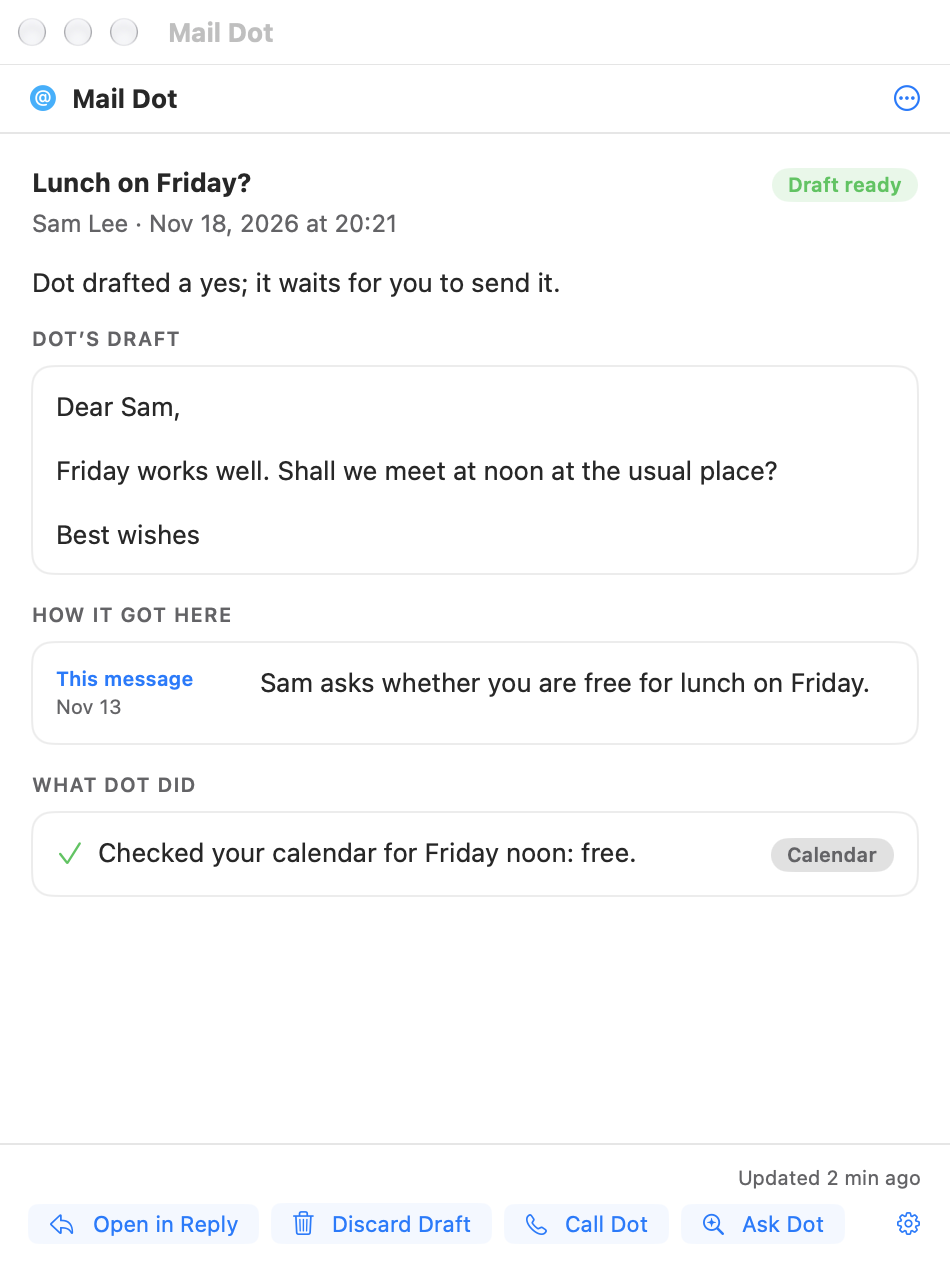
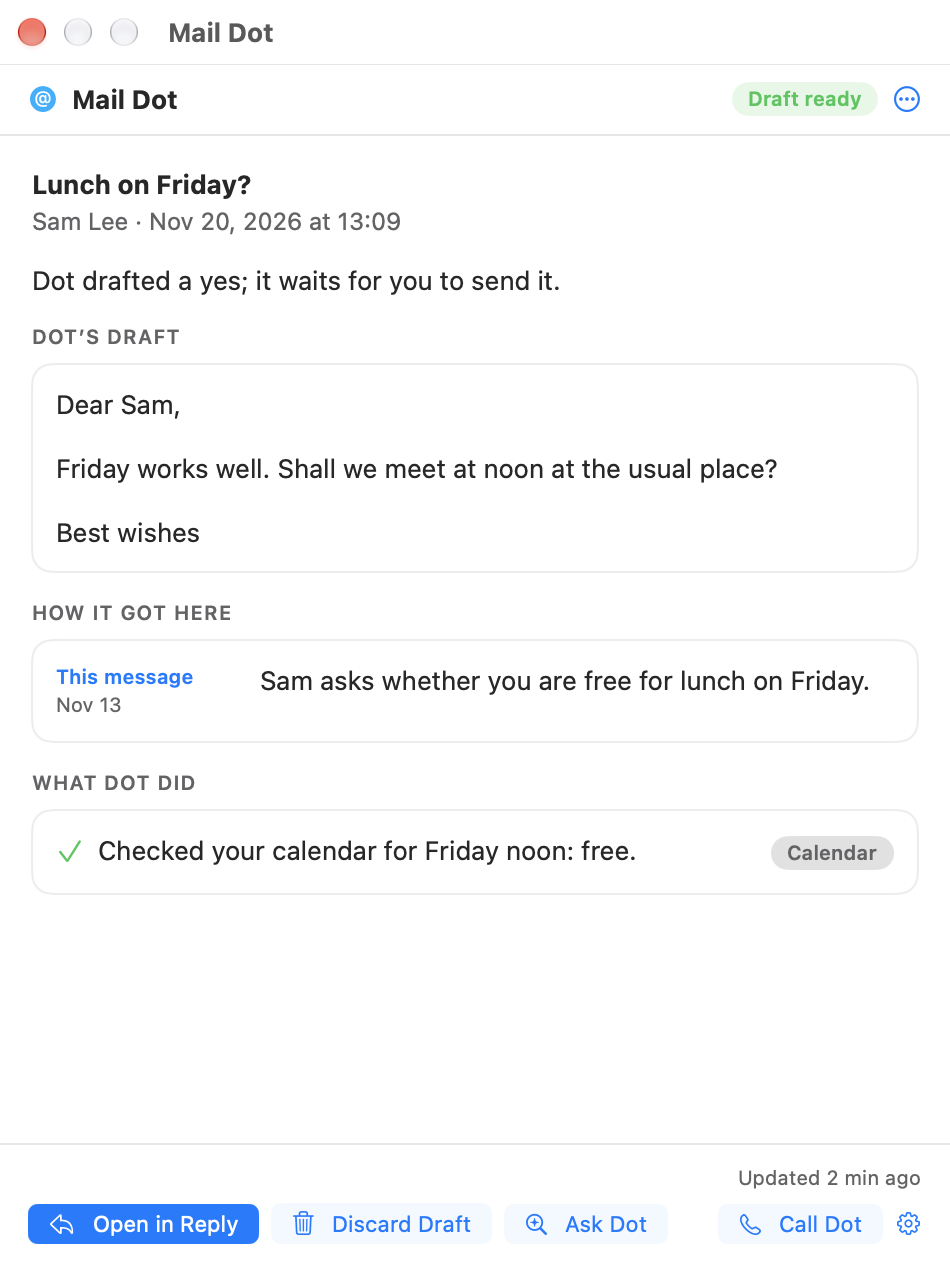
README: panel and window pictures from 0.4.224, with the new layout

diff --git a/README.md b/README.md
@@ -4,7 +4,7 @@ Mail Dot brings Dot, ChatGPT's always-on agent, into Apple Mail on the Mac. Dot 
 
 **Mail Dot is free for personal and noncommercial use.** Download the installer from the [Releases page](https://github.com/JGKarlin/maildot/releases); it is signed and notarized, and it updates itself. The source is published under the PolyForm Noncommercial License.
 
-<p align="center"><img src="docs/images/window-briefing.png" width="480" alt="The Mail Dot window for a thread of seven messages, in the Briefing view: Dot's question about which hall to book, with three suggested answers and a fourth choice, then what has been decided and what is still to decide. The bottom row offers No Reply Needed, Call Dot, Ask Dot and the settings."></p>
+<p align="center"><img src="docs/images/window-briefing.png" width="480" alt="The Mail Dot window for a thread of seven messages, in the Briefing view: Dot's question about which hall to book, with three suggested answers and a fourth choice, then what has been decided and what is still to decide. The state, Question for you, and the ⋯ menu are at the top. The bottom row offers No Reply Needed and Ask Dot on the left, and Call Dot and the settings gear on the right."></p>
 
 ## Why Mail Dot
 
@@ -20,7 +20,7 @@ When an important message arrives, or when you open one, Mail Dot offers it to D
 
 Where the context does not settle the reply, Dot asks one question with concrete answers, and a single press answers it. Mail Dot keeps your answer so that Dot does not ask again, and shows a draft already written before any question.
 
-<p align="center"><img src="docs/images/reply-question.png" width="520" alt="Mail Dot's panel showing a question from Dot about a scheduling conflict, with three suggested answers and a fourth choice to write something else."></p>
+<p align="center"><img src="docs/images/reply-question.png" width="520" alt="Mail Dot's panel showing a question from Dot about a scheduling conflict, with three suggested answers and a fourth choice to write something else. Insert, Save Draft, Send and No Reply are at the bottom, with the settings gear at the bottom right."></p>
 
 Mail Dot offers Dot only mail worth answering: bulk mail, mailing lists, receipts, account notices, one-time codes and automated messages stay out, and each account has its own switch for automatic drafts. Your drafting rules, such as how to open a message or how formal to be, go with every request, together with any notes on how to write to a particular person. A request you make yourself goes ahead of the automatic checks, and while Dot is starting the panel says how many requests are ahead of yours.
 
@@ -42,9 +42,9 @@ Gmail and iCloud are searched on the provider's servers through their connectors
 
 For each message it handles, Dot reports on the thread: how it began, how it developed, what has been decided, what remains open and who must act. A banner on the message gives the state: "Checking" while Dot decides whether a reply is needed, "Drafting" while it writes, then "Draft ready", "Question for you", "No reply needed", or "Replied" once you have answered, however you did it. Mail you wrote carries no banner.
 
-The banner's Open Mail Dot button opens the Mail Dot window over the message. It shows the state, then what needs you (Dot's question or its draft), then where the matter stands, how the thread got there, any meeting the mail sets with a button that adds it to your calendar, and what Dot did. When you answer Dot's question, the matter moves to Decided at once. The buttons at the bottom fit the state: No Reply Needed, Open in Reply, Discard Draft, Call Dot and Ask Dot.
+The banner's Open Mail Dot button opens the Mail Dot window over the message. It shows the state at the top, beside the ⋯ menu, then what needs you (Dot's question or its draft), then where the matter stands, how the thread got there, any meeting the mail sets with a button that adds it to your calendar, and what Dot did. When you answer Dot's question, the matter moves to Decided at once. The buttons at the bottom fit the state: No Reply Needed, Open in Reply, Discard Draft and Ask Dot on the left, then Call Dot and the settings gear at the right.
 
-<p align="center"><img src="docs/images/window-briefing-draft.png" width="480" alt="The Mail Dot window for a single message with Dot's draft ready: the draft, a one-line account of the message, and a note that Dot checked the calendar. The bottom row offers Open in Reply, Discard Draft, Call Dot, Ask Dot and the settings."></p>
+<p align="center"><img src="docs/images/window-briefing-draft.png" width="480" alt="The Mail Dot window for a single message with Dot's draft ready: the draft, a one-line account of the message, and a note that Dot checked the calendar. The state, Draft ready, and the ⋯ menu are at the top. The bottom row offers Open in Reply, Discard Draft and Ask Dot on the left, and Call Dot and the settings gear on the right."></p>
 
 #### Three views
 
@@ -60,7 +60,7 @@ Choose how the window lays out a report under Layout in Mail Dot's settings; the
 
 **Ledger** uses two panes in a wider window: the thread report (Origin, Development, Now) and what Dot did on the left, and each decision as a row on the right, marked decided or open with who and when. The decision that waits on you opens in place with Dot's question, its answers and a box for your reply. It suits a matter with many decisions, and needs about 820 by 730 points; on a smaller screen the window shows Briefing.
 
-<p align="center"><img src="docs/images/window-ledger.png" width="720" alt="The Mail Dot window in the Ledger view: on the left the thread report and what Dot did; on the right the decisions as rows, with Dates and Catering decided, the Hall marked as yours to decide with Dot's question and four answers opened beneath it, Extra budget waiting on the hall, and a planning call with an Add to Calendar button."></p>
+<p align="center"><img src="docs/images/window-ledger.png" width="720" alt="The Mail Dot window in the Ledger view: on the left the thread report and what Dot did; on the right the decisions as rows, with Dates and Catering decided, the Hall marked as yours to decide with Dot's question and four answers opened beneath it and a box for telling Dot the answer, with Dictate, Call Dot and Tell Dot beside it, Extra budget waiting on the hall, and a planning call with an Add to Calendar button."></p>
 
 ## Which accounts Mail Dot works with
 
@@ -107,7 +107,7 @@ Inside the one app are four parts: the Mail extension, which draws the banner, t
 
 In a reply window, the Mail Dot button in the toolbar opens the panel. Insert places Dot's draft at the head of the reply and leaves the quoted mail untouched; Save Draft also saves it to Drafts; No Reply dismisses it. Send places it, brings Mail forward and asks for one confirmation naming the recipients, after which Mail sends the message; Command-Return chooses Send. With **Confirm before sending** turned off under Drafting Rules in the settings, your press of Send is the confirmation; a send Dot prepared during a voice call always waits for your confirmation on the Mac. Dot has no tool that can confirm a send, a message changed after confirmation is not sent, and text inside a message can never authorise an action. The field beneath takes an instruction for revising the draft, typed or spoken through Dictate; Tell Dot sends it, and Call Dot opens a voice call for the same purpose.
 
-<p align="center"><img src="docs/images/reply-draft-ready.png" width="520" alt="Mail Dot's panel in a reply window, showing a draft that Dot has written, with buttons to insert it, save it as a draft, send it or decline to reply, and beneath them a box for telling Dot how to revise it, with Dictate, Call Dot and Tell Dot beside it."></p>
+<p align="center"><img src="docs/images/reply-draft-ready.png" width="520" alt="Mail Dot's panel in a reply window, showing a draft that Dot has written, with buttons to insert it, save it as a draft, send it or decline to reply, with the settings gear at the right of that row, and beneath them a box for telling Dot how to revise it, with Dictate, Call Dot and Tell Dot beside it."></p>
 
 Mail Dot's icon in a message's header opens its settings: Accounts, Drafting Rules (with Sending), Layout and Connection.
 
